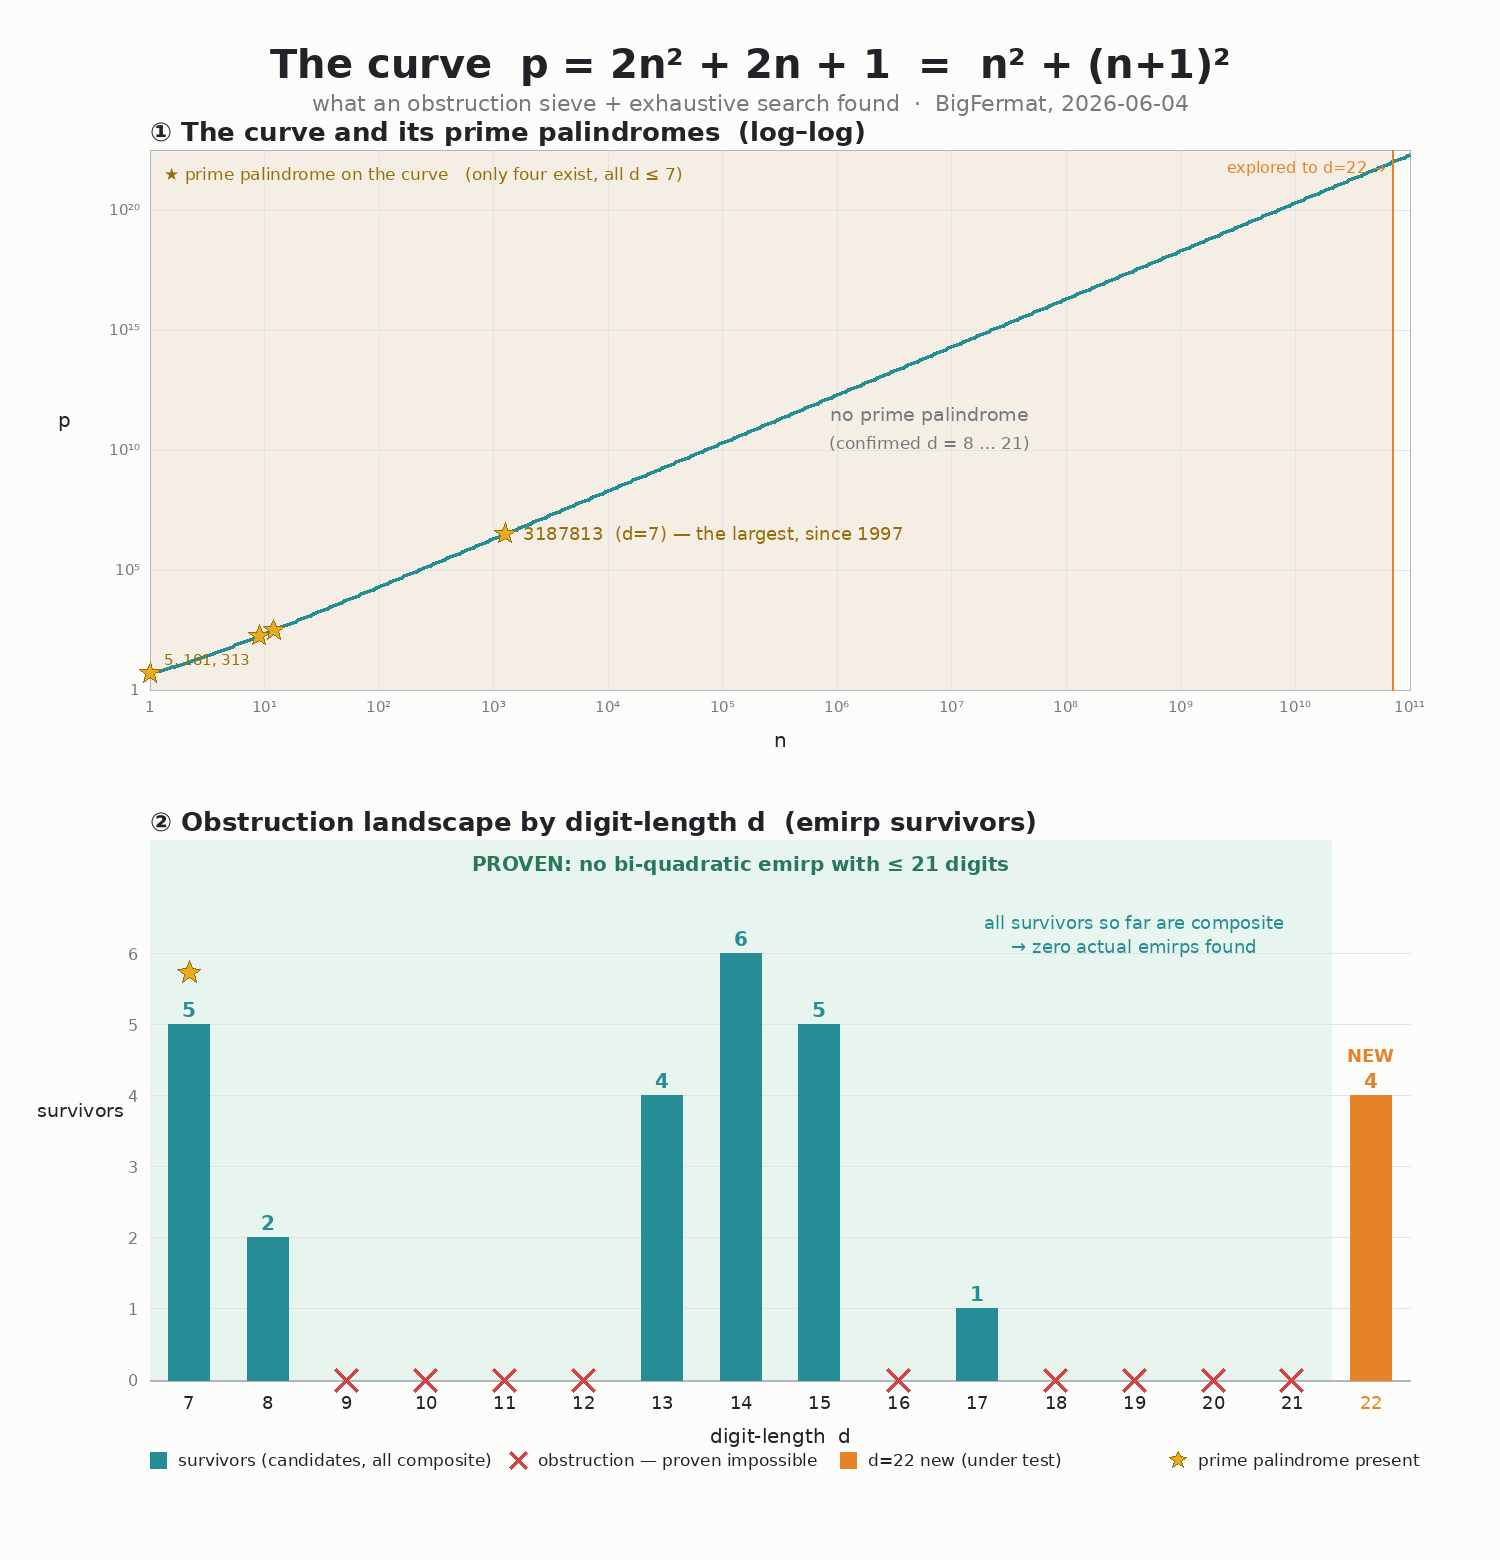
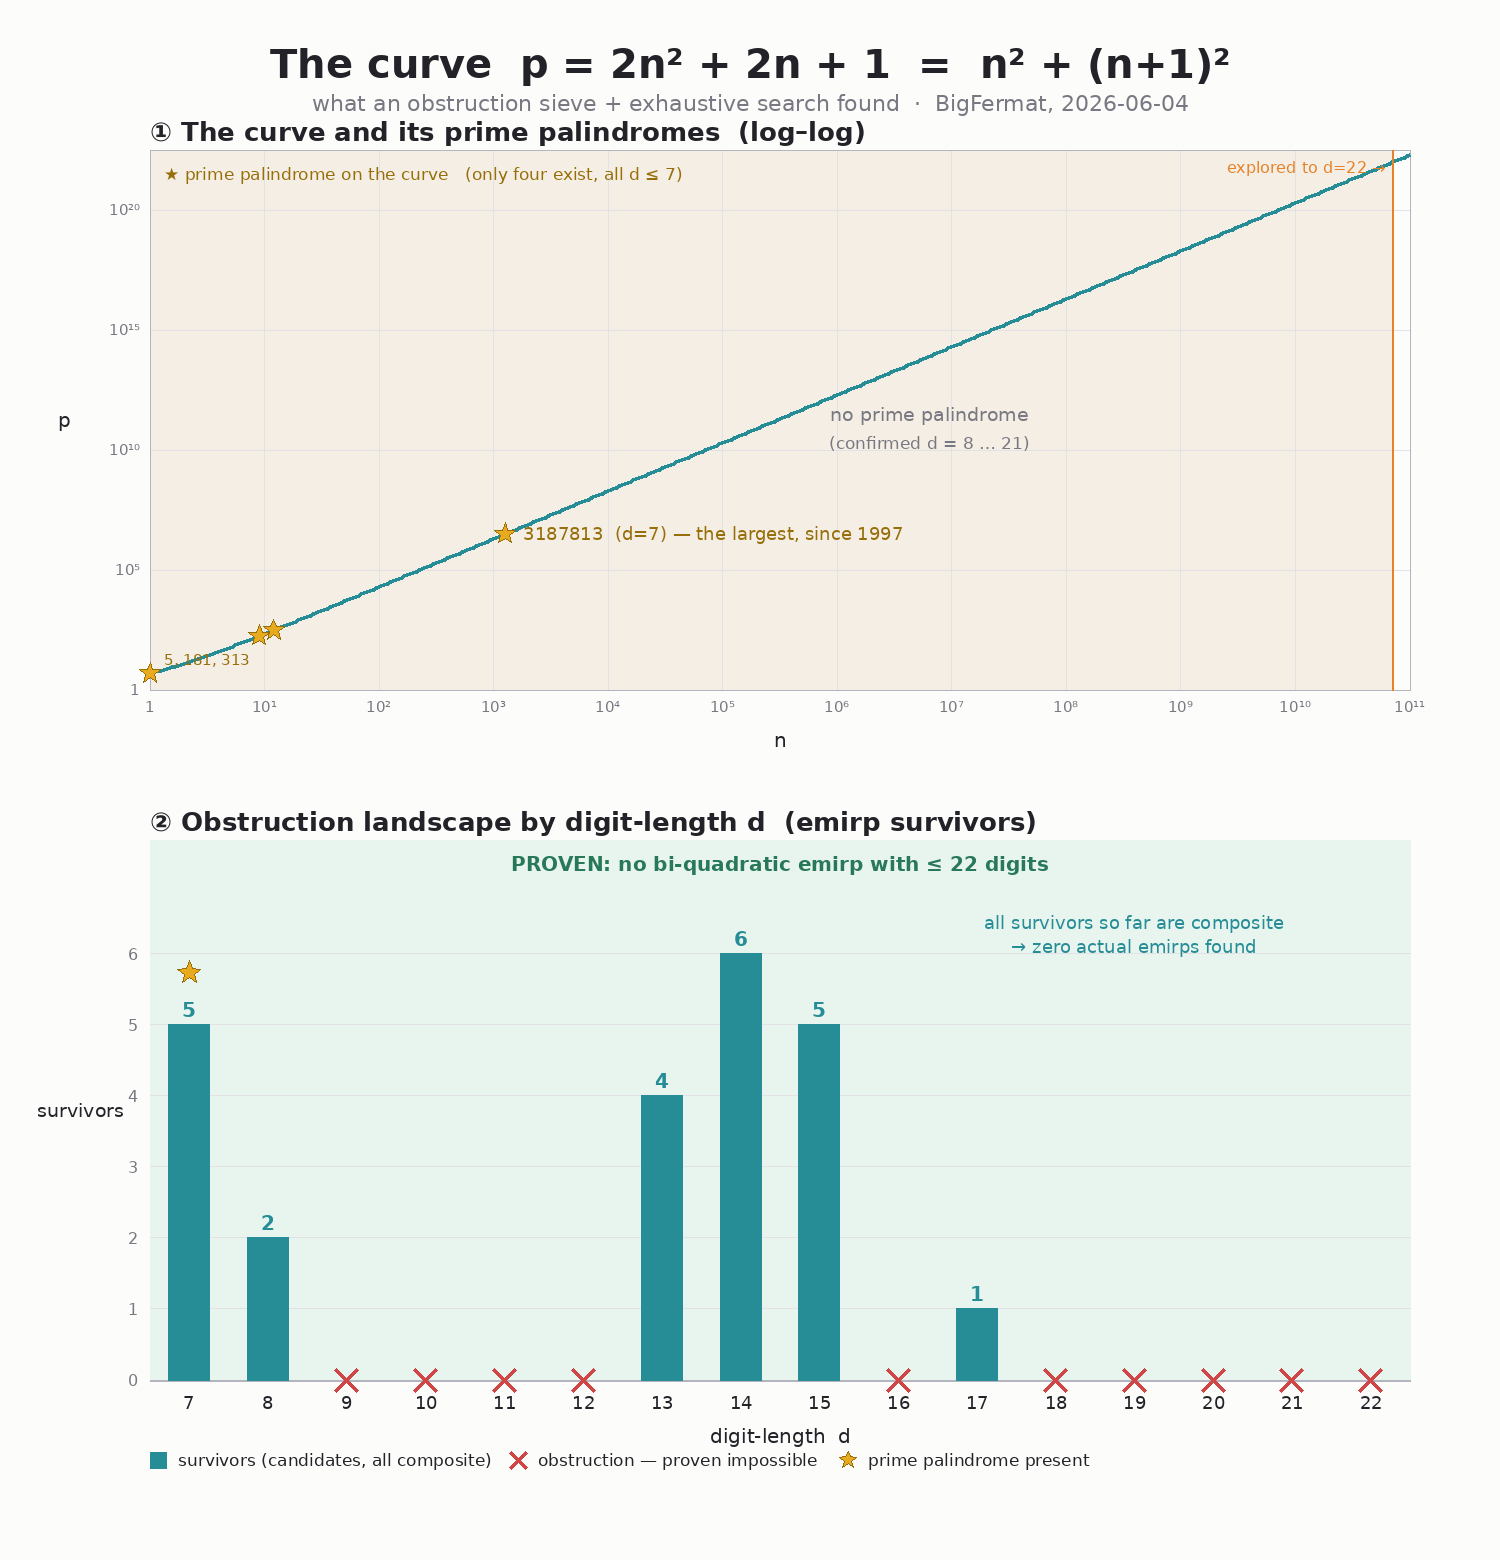
Sync docs+figure: d=22 is a proven OBSTRUCTION, wall extends to <=22
The k=10 sieve had reported d=22=4, but it over-counts past d=20 (covers only 20
of 22 digits). Exact brute force (hunt.c, logs/hunt_d22.log) found 0 curve-reversal
pairs at d=22 -> genuine obstruction. Updates:
- figure: d=22 red X (was orange 'NEW 4'); band now '<= 22 digits'
- PROJECT_OVERVIEW landscape + bound -> 22; milestone title/table/Next -> 22
- note: brute force trustworthy for d>=21 (sieve over-counts); reaches ~d=25

diff --git a/generate_graph.py b/generate_graph.py
@@ -6,9 +6,9 @@ from PIL import Image, ImageDraw, ImageFont
 # ---------- data ----------
 prime_pals = [(1, 5, 1), (9, 181, 3), (12, 313, 3), (1262, 3187813, 7)]  # (n, p, d)
 landscape = [(7,5),(8,2),(9,0),(10,0),(11,0),(12,0),(13,4),(14,6),(15,5),
-             (16,0),(17,1),(18,0),(19,0),(20,0),(21,0),(22,4)]
-OBSTR = {9,10,11,12,16,18,19,20,21}
-NEW = 22  # d=22 just found, still being checked for an actual emirp
+             (16,0),(17,1),(18,0),(19,0),(20,0),(21,0),(22,0)]
+OBSTR = {9,10,11,12,16,18,19,20,21,22}
+NEW = -1  # d=22 since PROVEN obstructed by exhaustive brute force (raw=0, EMIRPS=0)
 
 # ---------- canvas ----------
 W, H = 1500, 1560
@@ -109,10 +109,10 @@ def BX(dd):
 def BY(c): return B_b - c/ymax*(B_b-B_t)
 step=(bx_r-bx_l)/(dmax-dmin+1)
 
-# proven band  d=7..21
-d.rectangle([BX(7)-step/2, B_t, BX(21)+step/2, B_b], fill=BAND)
-text((BX(7)+BX(21))/2, B_t+12,
-     "PROVEN: no bi-quadratic emirp with ≤ 21 digits", FB(20), (40,120,90), "ma")
+# proven band  d=7..22
+d.rectangle([BX(7)-step/2, B_t, BX(22)+step/2, B_b], fill=BAND)
+text((BX(7)+BX(22))/2, B_t+12,
+     "PROVEN: no bi-quadratic emirp with ≤ 22 digits", FB(20), (40,120,90), "ma")
 
 # y grid
 for c in range(0,7):
@@ -142,8 +142,7 @@ star(BX(7), BY(5)-52, 12, GOLD)
 cox = (BX(17)+BX(21))/2
 text(cox, B_t+72, "all survivors so far are composite", F(18), TEAL, "ma")
 text(cox, B_t+96, "→ zero actual emirps found", F(18), TEAL, "ma")
-# d=22 marker: single "NEW" tag above its count, clear gap
-text(BX(22), BY(4)-34, "NEW", FB(18), ORANGE, "mb")
+# (d=22 is now a proven obstruction — drawn as a red ✗, no special marker)
 
 # legend
 ly=B_b+80; lx=bx_l
@@ -154,7 +153,6 @@ def chip(x,y,col,kind):
     else: d.rectangle([x,y-8,x+16,y+8],fill=col)
 items=[(TEAL,"box","survivors (candidates, all composite)"),
        (RED,"x","obstruction — proven impossible"),
-       (ORANGE,"box","d=22 new (under test)"),
        (GOLD,"star","prime palindrome present")]
 for col,k,lab in items:
     chip(lx,ly,col,k); text(lx+28,ly,lab,F(17),INK,"lm"); lx+=330 if len(lab)<34 else 360

diff --git a/docs/session_2026-06-04_milestone.md b/docs/session_2026-06-04_milestone.md
@@ -1,4 +1,4 @@
-# Milestone — 2026-06-04: No Bi-Quadratic Emirp Has ≤ 21 Digits
+# Milestone — 2026-06-04: No Bi-Quadratic Emirp Has ≤ 22 Digits
 
 > A clean, exhaustively-verified result, reached the morning after the
 > 2026-06-03 cliff/correctness fix. See `PROJECT_OVERVIEW.md` for full method &
@@ -13,7 +13,7 @@
 A *bi-quadratic emirp* is a prime `p = 2n²+2n+1` whose digit-reversal
 `q = rev(p)` is **also** prime **and also** of the form `2m²+2m+1` (and `q ≠ p`).
 
-The ≤21-digit range is now closed, gap-free:
+The ≤22-digit range is now closed, gap-free:
 
 ```
 d ≤ 12 : no candidates       (obstruction)
@@ -23,9 +23,10 @@ d = 15 : 5 candidates,  all composite   → no emirp   │ (hunt.c) — every n 
 d = 16 : 0 candidates        (obstruction)           │
 d = 17 : 1 candidate,   composite       → no emirp   ┘
 d = 18 : no candidates       (obstruction)   ┐
-d = 19 : no candidates       (obstruction)   │ modular sieve (k=10), proven —
-d = 20 : no candidates       (obstruction)   │ four consecutive obstructions
+d = 19 : no candidates       (obstruction)   │ modular sieve (k=10), proven
+d = 20 : no candidates       (obstruction)   │
 d = 21 : no candidates       (obstruction)   ┘
+d = 22 : no candidates       (obstruction)   ← exact brute force (hunt.c): 0 pairs
 ```
 
 Every prime-eligible candidate has `q` sitting exactly on the curve `2m²+2m+1`,
@@ -50,13 +51,14 @@ prime-eligible candidates.
 
 The structure is *satisfiable* (candidates with both ends on the curve and
 prime-eligible do exist) but primality never lands in this range. Meanwhile
-obstructions **dominate** right at the upper edge (d=16, 18, 19, 20, 21 all
-obstructed — four consecutive — d=17 down to a single straggler).
+obstructions **dominate** right at the upper edge (d=16, 18, 19, 20, 21, 22 all
+obstructed — five consecutive (18–22) — d=17 down to a single straggler).
 
 So the project's question sharpens:
 
-> **If bi-quadratic emirps exist at all, they are d ≥ 22** — the regime where
-> brute force is infeasible and the obstruction sieve is the only tool. And the
+> **If bi-quadratic emirps exist at all, they are d ≥ 23** — brute force reaches
+> ~d=25, and beyond that the obstruction sieve (or new mathematics) is the only
+> tool. And the
 > live possibility is now **non-existence**: do obstructions become *total* for
 > all large `d`?
 
@@ -84,8 +86,11 @@ This is the exact opposite of the old, retracted "saturation at d=2k+2" picture
 
 ## Next
 
-k=10 diagonal **done**: d=17=1 (confirmed), d=18,19,20,21 all OBSTRUCTION →
-result extended to **≤21 digits**. Options from here:
-- Push **d=22, 23 at k=10** (exact code handles past-cliff; a 0 is still a valid
-  proof — just slower, ~range/mod work per residue). Extends the proven wall.
-- Or write up the **non-existence trend** (obstructions now dominate d≥16).
+k=10 diagonal done (d=18–21 obstructed), then **d=22 closed by exact brute force**
+(hunt.c: 0 curve-reversal pairs) — result now **≤22 digits**. Note: the k=10 sieve
+*over-counts* past d=20 (it covers only 20 of 22 digits), so brute force is the
+trustworthy tool for d≥21; it reaches ~d=25. Options from here:
+- Push **d=23, 24, 25** by exact brute force (running now) — extends the wall.
+- Beyond d=25: only the sieve or new mathematics reaches (search is 10^(d/2)-bound;
+  MITM and congruence both ruled out — see memory `structural_attacks_ruled_out`).
+- Or write up the **non-existence trend** + the prime-palindrome unification.

diff --git a/docs/PROJECT_OVERVIEW.md b/docs/PROJECT_OVERVIEW.md
@@ -255,26 +255,26 @@ runs on barren; and the obstruction landscape by digit-length](biquad_curve_land
 it (5, 181, 313, 3187813) all sit at d ≤ 7, with the vast curve above confirmed
 empty. **bottom:** the emirp obstruction landscape — teal = surviving candidates
 (all composite so far), red ✗ = proven obstruction, the green band = the proven
-"no emirp ≤ 21 digits" zone, orange = the d=22 candidates under test. Regenerate
-with `generate_graph.py` as the wall climbs.*
+"no emirp ≤ 22 digits" zone. Regenerate with `generate_graph.py` as the wall climbs.*
 
 ```
-d:    9 10 11 12 | 13 14 15 | 16 | 17 | 18 19 20 21
-cnt:  0  0  0  0 |  4  6  5 |  0 |  1 |  0  0  0  0
-     └ OBSTRUCT ┘ └survivors┘ OBS  str  └── OBSTRUCTED ──┘
+d:    9 10 11 12 | 13 14 15 | 16 | 17 | 18 19 20 21 22
+cnt:  0  0  0  0 |  4  6  5 |  0 |  1 |  0  0  0  0  0
+     └ OBSTRUCT ┘ └survivors┘ OBS  str  └─── OBSTRUCTED ───┘
 
   d ≤ 12       : OBSTRUCTION (confirmed every k)
   d=13:4 14:6 15:5  converged counts (stable k7,k8,k9); ALL composite (hunt.c)
   d=16         : OBSTRUCTION (k8,k9 + exact brute force)
   d=17         : 1  (stable k9 AND k10; the lone candidate is composite — hunt.c)
-  d=18,19,20,21: OBSTRUCTION (k10 — proven impossible; 4 consecutive)
+  d=18,19,20,21: OBSTRUCTION (k10 sieve — proven impossible)
+  d=22         : OBSTRUCTION (exhaustive brute force, hunt.c — 0 curve-reversal pairs)
 ```
 
 The obstruction set is **not** a simple low-`d` band that ends. Survivors occupy a
 **narrow window at d=13–15**; obstructions then **resume and dominate** — d=16,
-then **four consecutive** at d=18,19,20,21, with only d=17's single composite
+then **five consecutive** at d=18,19,20,21,22, with only d=17's single composite
 straggler breaking the wall. Proven-impossible so far:
-**{9,10,11,12, 16, 18, 19, 20, 21}**. The trend toward **non-existence of large
+**{9,10,11,12, 16, 18, 19, 20, 21, 22}**. The trend toward **non-existence of large
 bi-quadratic emirps** is now strong — the opposite of the old, retracted
 "saturation" picture.
 
@@ -291,10 +291,11 @@ curve-hits there are divisible by 5 → composite → ineligible).
 **Result: EMIRPS = 0 for all of d=13–17.** Every prime-eligible candidate has `q`
 exactly on the curve yet `p` and/or `q` composite (Miller–Rabin, 40 rounds).
 
-**→ Combined with the d=18,19,20,21 sieve obstructions: there are NO bi-quadratic
-emirps with ≤ 21 digits.** Exhaustively verified (brute force d≤17, sieve d=18–21).
-If any exist, they are **d ≥ 22** — the regime where brute force is infeasible and
-the obstruction sieve is the only tool.
+**→ Combined with the sieve obstructions (d=18–21) and exact brute force (d=22):
+there are NO bi-quadratic emirps with ≤ 22 digits.** Exhaustively verified (brute
+force d≤17 and d=22, sieve d=18–21). If any exist, they are **d ≥ 23** — brute
+force is being pushed there now (feasible to ~d=25); beyond that, only the sieve
+(or new mathematics) reaches.
 
 **Cost note:** exact enumeration costs ~`range/mod` work per residue, so pushing
 far past a `k`'s cliff gets expensive (~10× per digit). The tractable, meaningful
